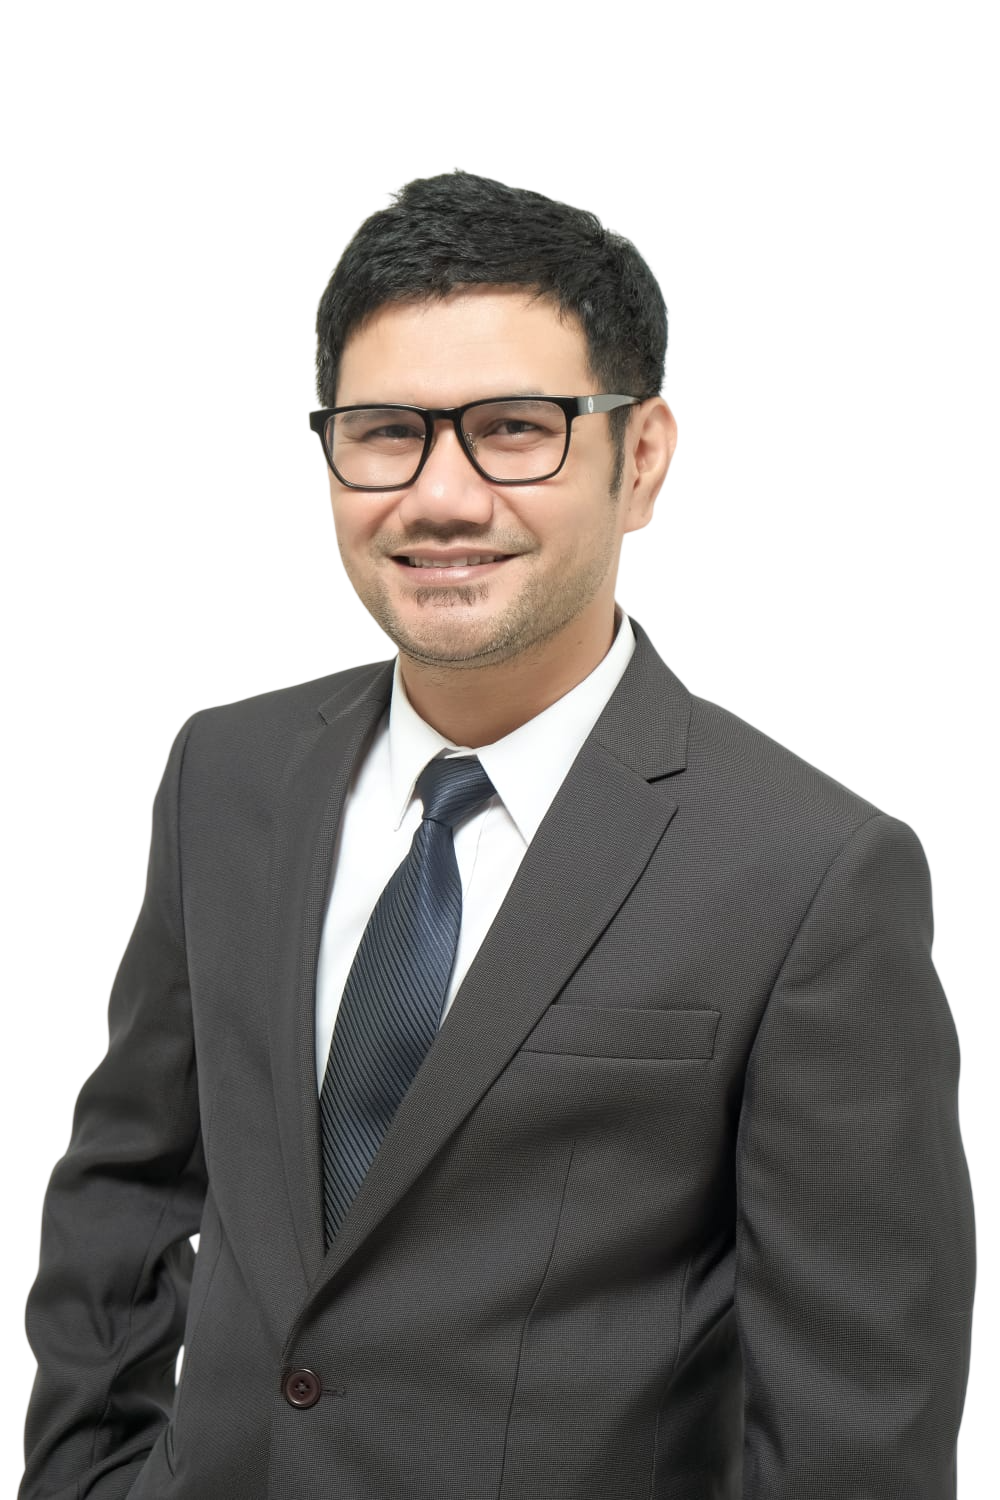
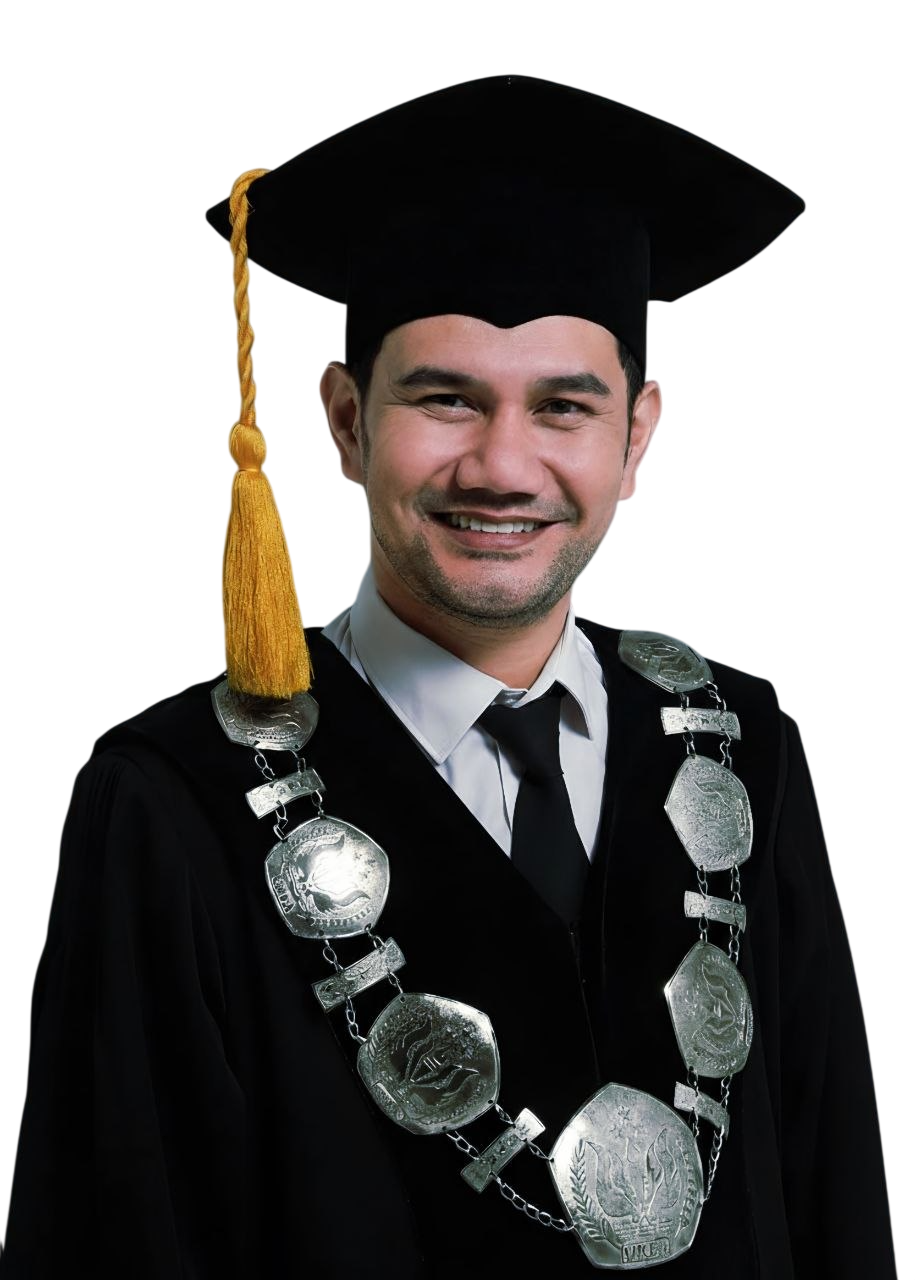
change photo

diff --git a/resources/js/pages/about.tsx b/resources/js/pages/about.tsx
@@ -236,8 +236,9 @@ export default function About() {
                         {/* WAKIL REKTOR I */}
                         <OrgNode
                             title="Wakil Rektor I"
-                            name="Prof. Imas Rosidawati, S.H., M.H."
-                            photoUrl="/images/wr-1.png"
+                            name="Prof. Dr. Hennie Husniah, Dra., M.T."
+                            // photoUrl="/images/wr-1.png"
+                            photoUrl="https://ui-avatars.com/api/?name=WR&background=f8fafc&color=1f5476&bold=true"
                         />
                         <div className="h-8 w-0.5 shrink-0 bg-[#2596be]/30"></div>
 
